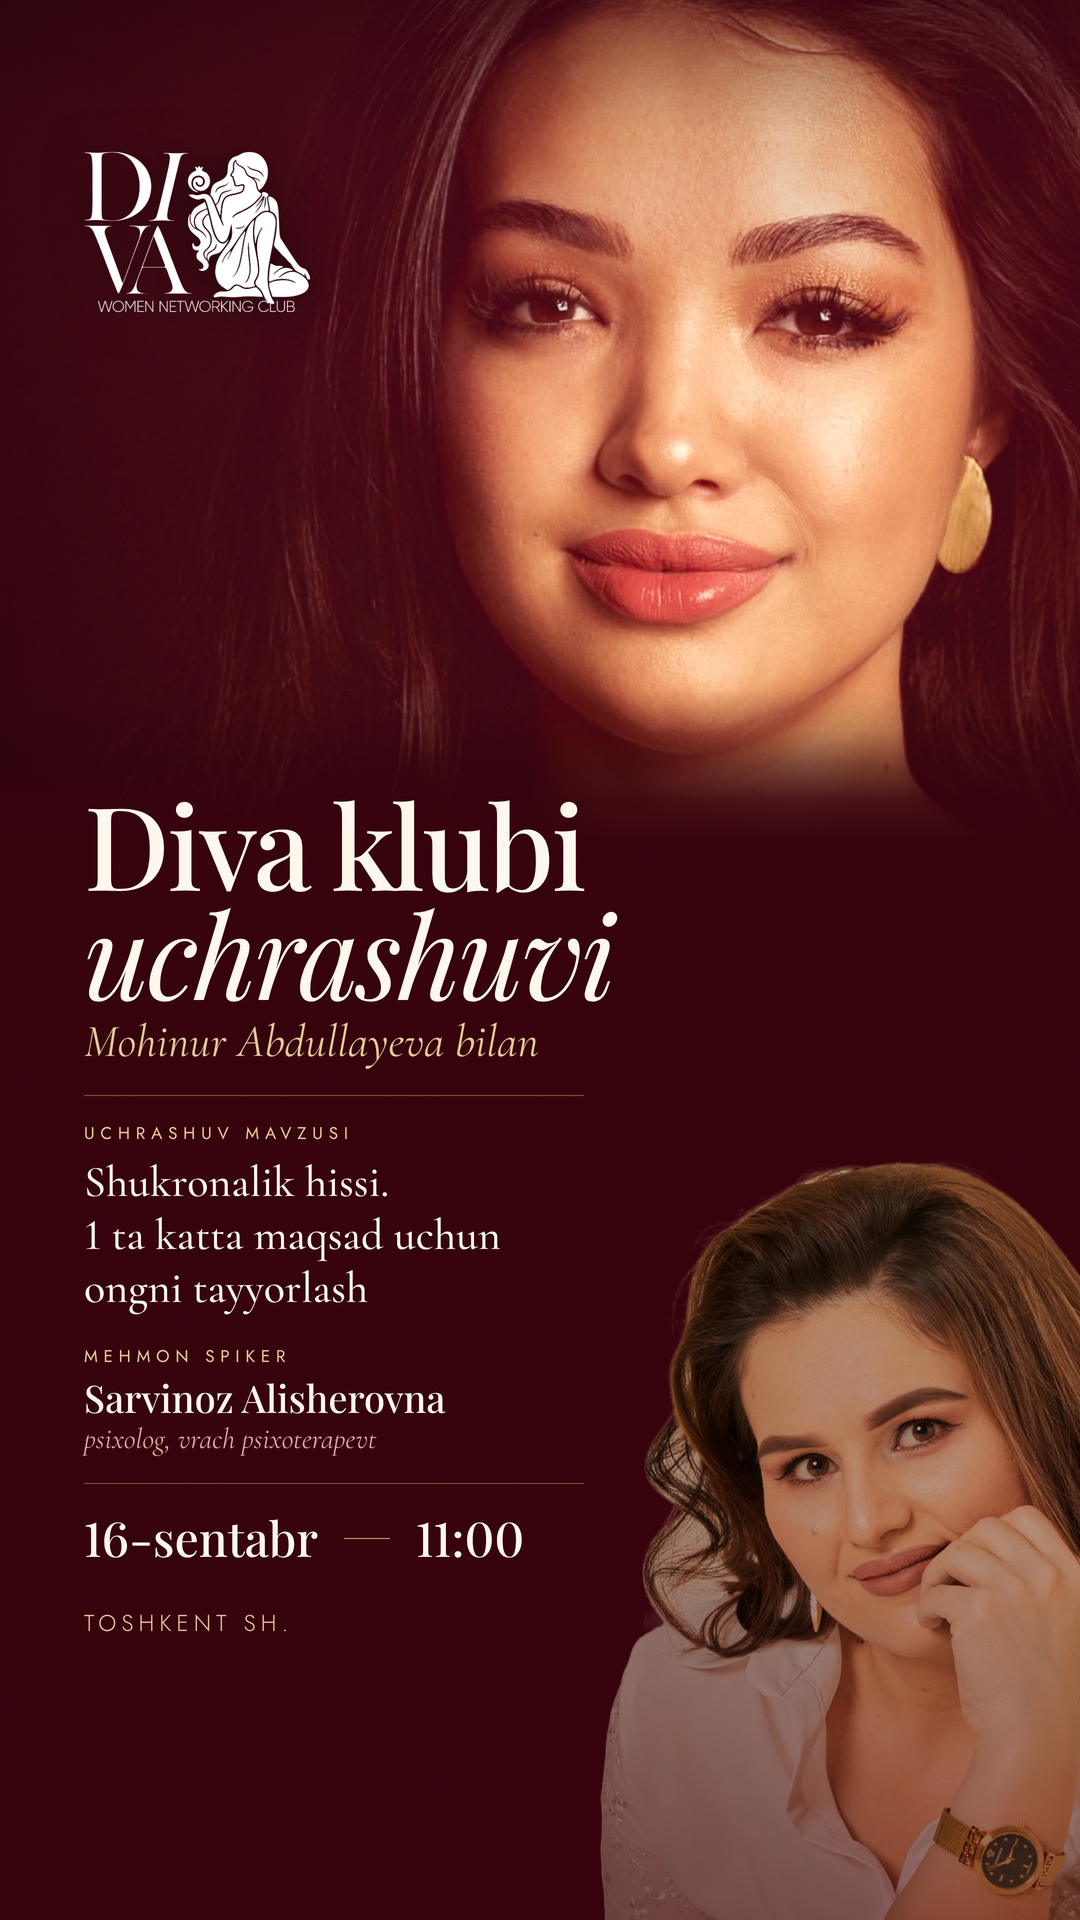
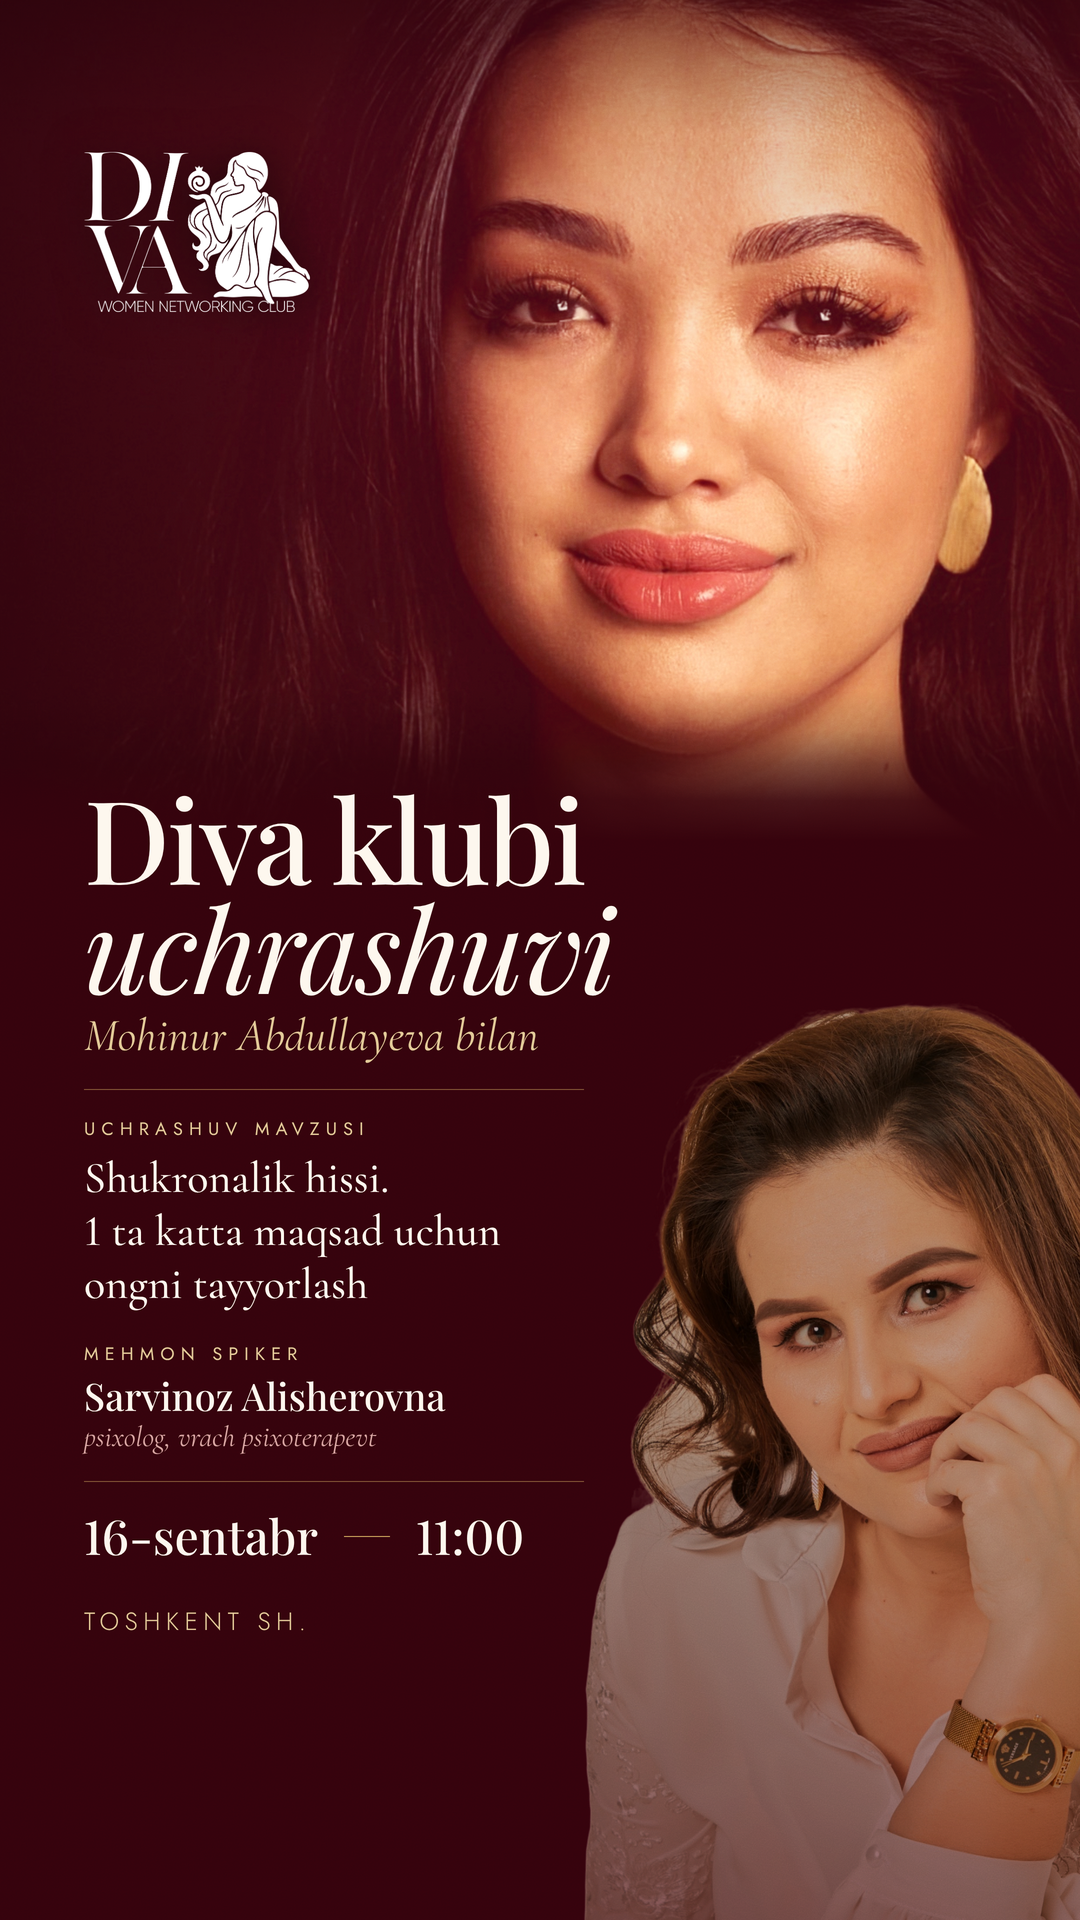
Move direction C's masthead off the hero's face
At 1:1 the lockup straddled the boundary from Mohinur's hair onto her
lit temple, dropping the strapline to 1.94:1. The dark hair left of her
face is a wedge only ~165px wide at those rows, narrowing exactly where
the lockup is widest, so neither shifting nor 85% clears it: 96px at
the existing gutter is the largest that does, and it lifts the worst
white-ink contrast to 5.31:1.

Also drops the 4:5 hero 50px so hair reads above the forehead, scales
the 9:16 guest up 26% to close the mid-right hole, and raises the
credential and venue sizes the feed test measured below the floor.

Claude-Session: https://claude.ai/code/session_01CJcxAKvhDYH9Z96uyo456t

Changed region(s): [[0.5194, 0.5, 1.0, 1.0], [0.0611, 0.4062, 0.5806, 0.8125], [0.3972, 0.7812, 0.4889, 0.8125]]

diff --git a/diva-club-posts/variant-a.html b/diva-club-posts/variant-a.html
@@ -29,7 +29,7 @@
   --gapHost: 12px;
 
   --figW: 560px;            /* Mohinur's box width — drives the figure scale */
-  --figWs: 560px;           /* Sarvinoz's box width — narrower crops her hair */
+  --figWs: var(--figW);     /* Sarvinoz's box width — narrower crops her hair */
   --figH: 656px;            /* photo box height — drives the crop          */
   --figOv: 196px;           /* how far the two boxes overlap               */
   --stageTop: 452px;
@@ -38,10 +38,10 @@
   --fadeA: 48%;             /* body fully opaque until here                */
   --fadeB: 82%;             /* body fully dissolved from here              */
   /* The dissolve must never reach a face. Chins measured off the renders and
-     carried back to the source frame: Mohinur's chin is at source y≈1060 of
-     2576, Sarvinoz's at y≈1003 (she rests it on her hand, so her fingers run
-     lower still). Both --sinkA/--sinkAs and --scrimTop are always set BELOW
-     the rendered y of those chins — see each ratio block for the arithmetic. */
+     carried back to the source frame (1717x2576): Mohinur's jaw bottoms out at
+     source y≈1141, Sarvinoz rests her chin on her hand and that hand bottoms
+     out at y≈1000. Both --sinkA/--sinkAs and --scrimTop are always set BELOW
+     the rendered y of those two — see each ratio block for the arithmetic. */
   --sinkA: 52%;             /* maroon starts drinking the body here        */
   --sinkM: 66%;
   --sinkE: 82%;             /* body essentially all maroon from here       */
@@ -291,7 +291,6 @@ figure { margin: 0; }
   justify-content: center;
   gap: var(--whenGap);
 }
-.v--city { display: none; }
 .d {
   font-family: var(--display);
   font-weight: var(--fwDate);
@@ -307,6 +306,8 @@ figure { margin: 0; }
   display: block;
   flex: 0 0 auto;
 }
+/* the second rule only exists when the venue rides in the date band (9:16) */
+.v--city { display: none; }
 .city {
   display: block;
   margin: var(--gapCity) 0 0;
@@ -320,13 +321,13 @@ figure { margin: 0; }
 }
 
 /* ===================================================================== 9:16
-   A 9:16 post is read as a Story, where the platform paints its own UI over
-   roughly the top 140px and the bottom 250px of the 1080x1920 frame. The date
-   and the venue therefore stay above y1670 — but the PICTURE does not have to.
-   So the pair is scaled up until it spans the full width (Mohinur dissolving
-   into the left edge, Sarvinoz's hair into the right) and its crop runs on
-   past the type, the bodies sinking into the maroon all the way down. That
-   fills the strip the type has to leave alone, instead of leaving it blank.
+   A 9:16 post is read as a Story: the platform paints its own UI over roughly
+   the top 140px and the bottom 250px of the 1080x1920 frame, so the venue line
+   has to stop above y1670 and a deep foot margin is unavoidable. The answer is
+   not to fight it but to MATCH it at the top — the head block starts at 232 so
+   the two end margins read as a pair (232 / 258) rather than as a poster that
+   slid up the frame — and to buy the height back out of the type stack, which
+   is where the figures' extra 22% comes from.
 
    Geometry, all measured rather than guessed (source frame 1717x2576):
      figH 1262 > 1.5 x figW, so COVER is height-driven: scale k = 1262/2576
@@ -334,62 +335,79 @@ figure { margin: 0; }
      Mohinur's box 700 wide, Sarvinoz's 620: the narrower box crops the outer
      6% of her hair sweep, which is what used to force the pair to stay small.
      pair = 700 + 620 - 231 = 1089 wide, centred then nudged -5 -> her box
-     right lands exactly on x1080, so the hair dissolves into the edge.
-     hair top 554 | Mohinur chin 1022 | Sarvinoz chin 995 | stage foot 1765  */
+     right lands exactly on x1080, so the hair dissolves into the edge, and
+     Mohinur's fade runs out at x0. The pair now spans the full width.
+     hair top 608 | Mohinur chin 1116 | Sarvinoz hand 1047 | stage foot 1819 */
 html[data-r="9x16"] .canvas {
   --padX: 88px; --gTop: 232px; --gBot: 248px;
-  --logoW: 132px; --gapLogo: 22px; --gapHost: 8px;
+  --logoW: 132px; --gapLogo: 20px; --gapHost: 6px;
   --figW: 700px; --figWs: 620px; --figH: 1262px; --figOv: 231px;
   --stageTop: 557px; --stageShift: -5px; --maskX: 9%;
-  /* Chins measured on the render: Mohinur y1116 = 44.3% of the box, Sarvinoz
-     (chin on her hand) y1084 = 41.8%. Every sink stop starts ~34px under its
-     own chin. The bodies then stay at full alpha, just sunk, so the caption
-     band has one even ground instead of a half-dissolved blouse; only the
-     last 14% of the box tapers, carrying the pair to the canvas foot. */
+  /* Measured on the render: Mohinur's jaw bottoms at y1116 = 44.3% of the box,
+     Sarvinoz's chin rests on her hand and that hand bottoms at y1047 = 38.8%.
+     Her sink opens at 39.5% (y1055) and his at 47% (y1150) — both under their
+     own faces. The bodies then stay at FULL alpha and are simply sunk, so the
+     caption band gets one even ground instead of a half-dissolved blouse; only
+     the last 14% of the box tapers, so no cut edge shows anywhere. */
   --fadeA: 86%; --fadeB: 100%;
-  --sinkA: 47%; --sinkM: 53%; --sinkE: 59%;
-  --sinkAs: 44.5%; --sinkMs: 48.5%; --sinkEs: 52%;
+  --sinkA: 47%; --sinkM: 51.5%; --sinkE: 56%;
+  --sinkAs: 39.5%; --sinkMs: 45%; --sinkEs: 50%;
   --namesTop: 1215px; --capW: 420px; --capOff: 168px;
   --scrimTop: 1130px; --scrimOp: .62;
-  --fsTitle: 84px; --fsHost: 42px;
+  --fsTitle: 90px; --lhTitle: .96; --fsHost: 42px;
   --fsTag: 21px; --fsName: 34px; --fsRole: 26px;
   --fsLbl: 22px; --fsTopic: 56px; --fsTopic2: 36px;
-  --fsDate: 68px; --fsCity: 25px;
-  --markW: 300px; --gapMark: 12px; --gapWhen: 12px; --whenGap: 34px;
+  --fsDate: 68px; --fsCity: 27px;
+  --markW: 400px; --gapMark: 12px; --gapWhen: 12px; --whenGap: 30px;
 }
 /* one band: 16-sentabr | 11:00 | TOSHKENT SH. */
 html[data-r="9x16"] .whenwrap { flex-direction: row; justify-content: center; gap: var(--whenGap); }
 html[data-r="9x16"] .v--city { display: block; }
-html[data-r="9x16"] .city { margin: 0; }
+/* In the band the venue is the LAST item, so its trailing letter-space would
+   push the whole row 3.5px left of centre. Drop the indent and pull the same
+   amount off the right margin instead: ink now ends flush with the row. */
+html[data-r="9x16"] .city { margin: 0 -.26em 0 0; text-indent: 0; }
 
-/* ====================================================================== 4:5 */
+/* ====================================================================== 4:5
+   Chins on the render: Mohinur y785 = 52.2% of the box, Sarvinoz's hand y742
+   = 45.8%. Same treatment as the Story — full alpha through the caption band,
+   the maroon drunk in by the sink instead of a half-dissolved blouse.       */
 html[data-r="4x5"] .canvas {
-  --padX: 78px; --gTop: 74px; --gBot: 62px;
-  --logoW: 152px; --gapLogo: 30px; --gapHost: 12px;
+  --padX: 78px; --gTop: 68px; --gBot: 58px;
+  --logoW: 152px; --gapLogo: 28px; --gapHost: 10px;
   --figW: 560px; --figH: 656px; --figOv: 196px;
-  --stageTop: 452px; --stageShift: 17px; --maskX: 6%;
-  --fadeA: 52%; --fadeB: 84%; --sinkA: 52%; --sinkM: 64%;
-  --namesTop: 858px; --capW: 420px; --capOff: 154px; --scrimTop: 800px;
+  --stageTop: 442px; --stageShift: 17px; --maskX: 6%;
+  --fadeA: 86%; --fadeB: 100%;
+  --sinkA: 57%; --sinkM: 62%; --sinkE: 67%;
+  --sinkAs: 51%; --sinkMs: 56%; --sinkEs: 60.5%;
+  --namesTop: 838px; --capW: 420px; --capOff: 154px;
+  --scrimTop: 830px; --scrimOp: .78;
   --fsTitle: 78px; --fsHost: 40px;
-  --fsTag: 15px; --fsName: 32px; --fsRole: 24px;
-  --fsLbl: 16px; --fsTopic: 45px; --fsTopic2: 32px;
-  --fsDate: 47px; --fsCity: 21px;
-  --markW: 240px; --gapMark: 18px; --gapWhen: 16px; --whenGap: 30px; --gapCity: 12px;
+  --fsTag: 19px; --fsName: 30px; --fsRole: 24px;
+  --fsLbl: 19px; --fsTopic: 45px; --fsTopic2: 34px;
+  --fsDate: 56px; --fsCity: 24px;
+  --markW: 240px; --gapMark: 14px; --gapWhen: 13px; --whenGap: 30px; --gapCity: 10px;
 }
 
-/* ====================================================================== 1:1 */
+/* ====================================================================== 1:1
+   Chins on the render: Mohinur y646 = 49.0% of the box, Sarvinoz's hand y605
+   = 43.0%. The square is the tight cut, so the sink ramps fastest here — but
+   it still opens 14px clear of the lower of the two chins.                  */
 html[data-r="1x1"] .canvas {
-  --padX: 72px; --gTop: 56px; --gBot: 56px;
-  --logoW: 108px; --gapLogo: 12px; --gapHost: 4px;
+  --padX: 72px; --gTop: 68px; --gBot: 56px;
+  --logoW: 104px; --gapLogo: 10px; --gapHost: 3px;
   --figW: 537px; --figH: 690px; --figOv: 138px;
   --stageTop: 308px; --stageShift: 16px; --maskX: 6%;
-  --fadeA: 48%; --fadeB: 66%; --sinkA: 47%; --sinkM: 58%;
-  --namesTop: 698px; --capW: 400px; --capOff: 173px; --scrimTop: 652px;
+  --fadeA: 86%; --fadeB: 100%;
+  --sinkA: 51%; --sinkM: 54.5%; --sinkE: 58%;
+  --sinkAs: 45%; --sinkMs: 50%; --sinkEs: 54%;
+  --namesTop: 680px; --capW: 400px; --capOff: 173px;
+  --scrimTop: 670px; --scrimOp: .82;
   --fsTitle: 54px; --fsHost: 30px;
-  --fsTag: 13px; --fsName: 27px; --fsRole: 21px;
-  --fsLbl: 14px; --fsTopic: 34px; --fsTopic2: 24px;
-  --fsDate: 38px; --fsCity: 17px;
-  --markW: 170px; --gapMark: 18px; --gapWhen: 14px; --whenGap: 24px; --gapCity: 9px;
+  --fsTag: 14px; --fsName: 25px; --fsRole: 24px;
+  --fsLbl: 16px; --fsTopic: 33px; --fsTopic2: 29px;
+  --fsDate: 45px; --fsCity: 20px;
+  --markW: 170px; --gapMark: 12px; --gapWhen: 11px; --whenGap: 24px; --gapCity: 8px;
 }
 /* 1:1 is the compact cut — single-line names keep the stack tight */
 html[data-r="1x1"] .nm br { display: none; }

diff --git a/diva-club-posts/variant-c.html b/diva-club-posts/variant-c.html
@@ -33,12 +33,12 @@
   /* type scale */
   --t-title: 116px;
   --t-with: 46px;
-  --t-label: 17px;
+  --t-label: 18px;
   --t-theme: 44px;
   --t-name: 38px;
   --t-role: 29px;
   --t-date: 48px;
-  --t-city: 23px;
+  --t-city: 25px;
 
   --col: 500px;   /* width of the type column */
 }
@@ -246,14 +246,18 @@
    it so the type still lands below her chin, on a dark field. */
 html[data-r="9x16"] .canvas {
   --hz: 118%; --hx: -57px; --hy: -268px;
-  --sz: 165%; --sx: 7px; --sy: 10px;
+  /* the guest carries the mid-right of the Story: she is scaled up and lifted
+     so her head reaches the empty band under the title instead of sitting in
+     the corner. Her presence now matches the other two ratios. */
+  --sz: 150%; --sx: 45px; --sy: 0px;
   --t-title: 116px; --t-with: 46px; --t-theme: 44px; --t-name: 38px;
-  --t-role: 29px; --t-date: 48px; --t-city: 23px;
+  --t-role: 29px; --t-date: 48px; --t-city: 25px;
   --col: 500px;
 }
-/* wide enough that her silhouette is never sliced by the box: the only cuts
-   on her are the right and bottom canvas edges */
-html[data-r="9x16"] .sarv { width: 580px; height: 828px; }
+/* wide and tall enough that her silhouette is never sliced by the box: the
+   only cuts on her are the right and bottom canvas edges (she clears the box's
+   own top edge by 66px and its left edge by 145px) */
+html[data-r="9x16"] .sarv { width: 640px; height: 980px; }
 html[data-r="9x16"] .mark { top: 152px; }
 html[data-r="9x16"] .stack { bottom: 280px; }
 html[data-r="9x16"] .hero > .scrim {
@@ -280,11 +284,14 @@ html[data-r="9x16"] .when { margin-top: 22px; }
 html[data-r="9x16"] .city { margin-top: 10px; }
 
 /* ---- 4:5 — same logic, tighter: portrait dominates, figure bottom-right -- */
+/* --hy is 50px lower than the crop reads naturally: the canvas edge used to
+   land on Mohinur's hairline, so the portrait is dropped until a real band of
+   hair carries the top edge above her brow, as it does in the 9:16. */
 html[data-r="4x5"] .canvas {
-  --hz: 126%; --hx: -30px; --hy: -200px;
+  --hz: 126%; --hx: -30px; --hy: -150px;
   --sz: 197%; --sx: -2px; --sy: 15px;
-  --t-title: 76px; --t-with: 35px; --t-label: 15px; --t-theme: 33px;
-  --t-name: 30px; --t-role: 24px; --t-date: 40px; --t-city: 19px;
+  --t-title: 76px; --t-with: 35px; --t-label: 16px; --t-theme: 33px;
+  --t-name: 30px; --t-role: 27px; --t-date: 40px; --t-city: 22px;
   --col: 470px;
 }
 html[data-r="4x5"] .mark { width: 190px; }
@@ -307,8 +314,8 @@ html[data-r="1x1"] .canvas {
   --seam: 560px;
   --hz: 1260px; --hx: -141px; --hy: -104px;
   --sz: 168%; --sx: -11px; --sy: 15px;
-  --t-title: 62px; --t-with: 32px; --t-label: 13px; --t-theme: 28px;
-  --t-name: 28px; --t-role: 22px; --t-date: 36px; --t-city: 16px;
+  --t-title: 62px; --t-with: 32px; --t-label: 15px; --t-theme: 28px;
+  --t-name: 28px; --t-role: 26px; --t-date: 36px; --t-city: 19px;
   --col: 100%;
 }
 /* Both free edges are dissolved with a real alpha mask rather than a painted
@@ -338,8 +345,12 @@ html[data-r="1x1"] .hero > .scrim {
   background: linear-gradient(180deg, rgba(20,0,5,0.40) 0%, rgba(20,0,5,0) 20%);
 }
 html[data-r="1x1"] .hero > .side { background: linear-gradient(90deg, rgba(20,0,5,0.30) 0%, rgba(20,0,5,0) 26%); }
-/* +8px so the lockup's own transparent margin lands its ink on the type column */
-html[data-r="1x1"] .mark { width: 150px; top: 70px; left: 70px; }
+/* The hair/skin boundary runs diagonally through this corner, and the dark hair
+   left of it is only ~165px wide, so the lockup is scaled until its whole
+   silhouette — seated figure and strapline included — sits on the near-black
+   hair, on one even ground, clear of her temple and well above her brow. Only
+   the scale moves: it stays on the type column's gutter at var(--pad). */
+html[data-r="1x1"] .mark { width: 96px; }
 /* she stands past the photo block's baseline and dissolves before the type */
 html[data-r="1x1"] .sarv {
   top: 0; bottom: auto; right: 0; left: 540px;
